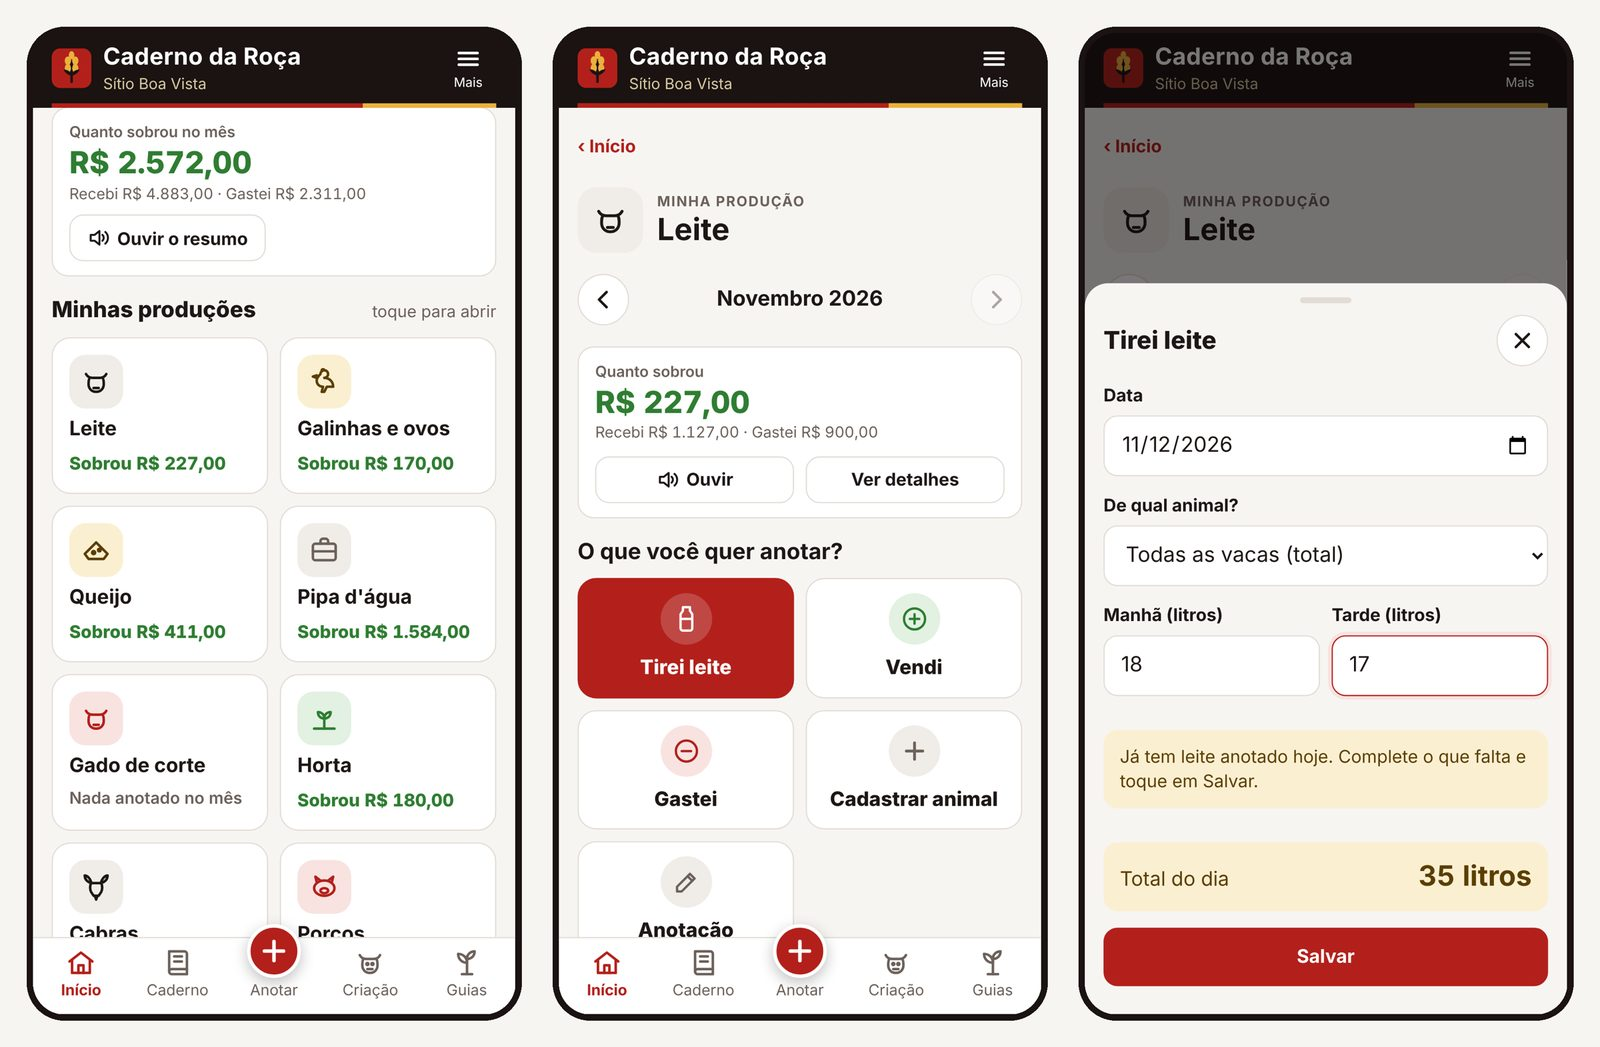
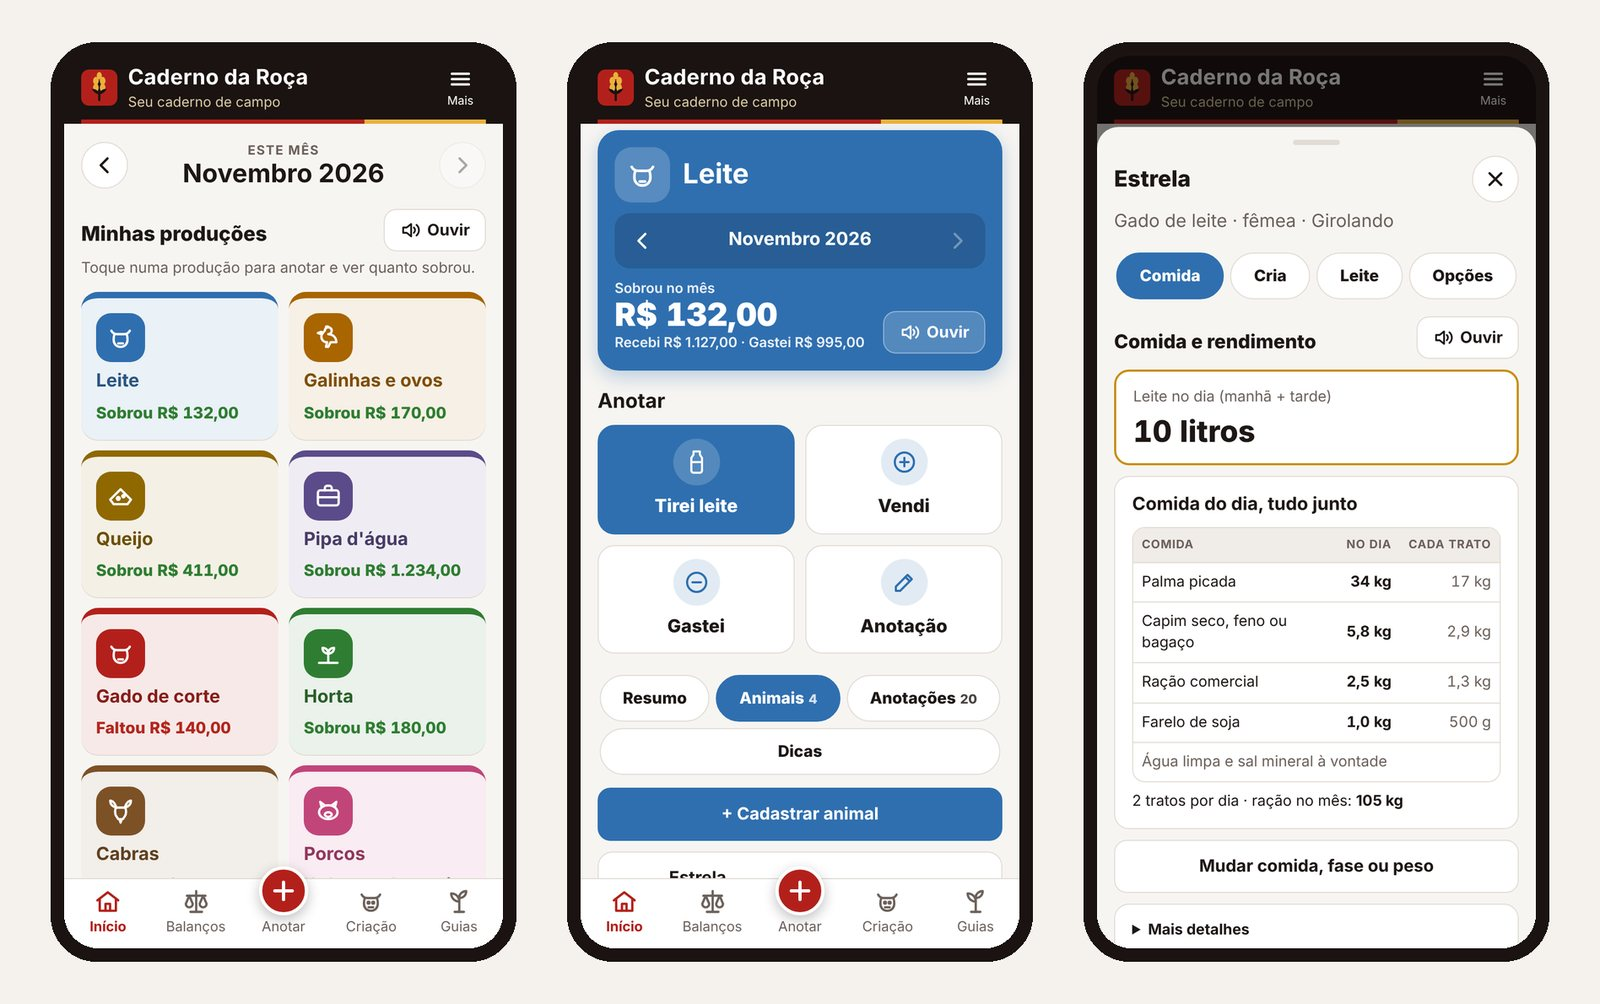
Apresentação atualizada: plataforma com quatro portas, técnicos e setores, programas federais, implantação em 2 meses, telas novas do app
Claude-Session: https://claude.ai/code/session_015QXzBRzgzvtV8Z8UQEw2zt

diff --git a/apresentacao/index.html b/apresentacao/index.html
@@ -156,6 +156,28 @@ footer{background:var(--black);color:#b9a98f;font-size:13px;padding:26px 0 calc(
 footer .wrap{display:flex;justify-content:space-between;gap:16px;flex-wrap:wrap}
 footer a{color:#e6d9bd}
 @media (prefers-reduced-motion: reduce){html{scroll-behavior:auto}.mod{transition:none}}
+.portas{display:grid;grid-template-columns:repeat(4,minmax(0,1fr));gap:14px;margin-top:30px}
+@media (max-width:900px){.portas{grid-template-columns:repeat(2,minmax(0,1fr))}}
+@media (max-width:520px){.portas{grid-template-columns:1fr}}
+.porta{background:var(--surface);border:1px solid var(--line);border-top:6px solid var(--c);border-radius:14px;padding:18px;display:flex;flex-direction:column;gap:6px}
+.porta .pn{width:34px;height:34px;border-radius:10px;background:var(--c);color:#fff;font-weight:900;display:grid;place-items:center}
+.porta h3{font-size:19px;color:var(--c)}
+.porta p{color:var(--muted);font-size:15px}
+.base{margin-top:14px;background:var(--black);color:#fff;border-radius:14px;padding:16px 18px;display:flex;flex-wrap:wrap;gap:6px 14px;align-items:baseline}
+.base b{color:var(--gold);font-family:var(--display);font-size:18px}
+.base span{color:#e6d9bd;font-size:15px}
+.progs{display:grid;grid-template-columns:repeat(4,minmax(0,1fr));gap:14px;margin-top:26px}
+@media (max-width:900px){.progs{grid-template-columns:repeat(2,minmax(0,1fr))}}
+@media (max-width:520px){.progs{grid-template-columns:1fr}}
+.progs div{background:var(--surface);border:1px solid var(--line);border-radius:14px;padding:16px;display:flex;flex-direction:column;gap:6px}
+.progs b{font-family:var(--display);font-size:20px;color:var(--red)}
+.progs span{font-size:15px;color:var(--muted)}
+.progs small{margin-top:auto;font-size:12px;font-weight:800;letter-spacing:.05em;text-transform:uppercase;color:var(--gold-deep)}
+.nota{margin-top:18px;font-size:15px;color:var(--muted);background:var(--surface);border-left:4px solid var(--gold);border-radius:0 12px 12px 0;padding:12px 14px}
+.steps{grid-template-columns:repeat(5,minmax(0,1fr))!important}
+@media (max-width:1000px){.steps{grid-template-columns:repeat(2,minmax(0,1fr))!important}}
+@media (max-width:520px){.steps{grid-template-columns:1fr!important}}
+.plan a{color:var(--red);font-weight:700}
 </style>
 </head>
 <body>
@@ -169,8 +191,8 @@ footer a{color:#e6d9bd}
     <ul>
       <li><a href="#como">Como funciona</a></li>
       <li><a href="#modulos">Módulos</a></li>
-      <li><a href="#privacidade">Privacidade</a></li>
-      <li><a href="#planos">Planos</a></li>
+      <li><a href="#federal">Programas</a></li>
+      <li><a href="#implantacao">Implantação</a></li>
     </ul>
     <a class="btn gold" href="#contato">Agendar<span class="lg">&nbsp;apresentação</span></a>
   </div>
@@ -180,20 +202,20 @@ footer a{color:#e6d9bd}
 <header class="hero" id="topo">
   <div class="wrap">
     <div>
-      <p class="eyebrow" style="color:var(--gold)">Para Secretarias Municipais de Agricultura</p>
+      <p class="eyebrow" style="color:var(--gold)">Plataforma para Secretarias Municipais de Agricultura</p>
       <h1 style="margin-top:10px">O agricultor anota no celular. <em>A prefeitura enxerga o campo.</em></h1>
-      <p class="l">Um aplicativo simples, que funciona sem internet e fala em voz alta, para a família registrar a produção. E um painel para a Secretaria acompanhar comunidades, chuva, fila do trator, merenda escolar, CAF, água e assistência técnica.</p>
+      <p class="l">Uma plataforma única para toda a Secretaria: o app do produtor, o app de campo dos técnicos, o sistema de trabalho de cada setor e o portal do secretário. Tudo o que cada um registra vai para a mesma base, com mapa, fotos, relatórios e os programas federais organizados.</p>
       <div class="ctas">
         <a class="btn gold" href="../painel/">Ver o painel funcionando</a>
         <a class="btn line" href="../">Abrir o app do produtor</a>
       </div>
       <ul class="facts">
-        <li><b>14</b>módulos no painel</li>
-        <li><b>Sem internet</b>o app funciona no sítio</li>
-        <li><b>LGPD</b>a família decide o que compartilha</li>
+        <li><b>4</b>portas de entrada, uma base só</li>
+        <li><b>Sem internet</b>no sítio e no campo</li>
+        <li><b>Até 2 meses</b>para implantar</li>
       </ul>
     </div>
-    <figure><img src="figura1.jpg" width="1600" height="1047" alt="Telas do aplicativo Caderno da Roça: início com as produções, tela do leite e registro das duas ordenhas"></figure>
+    <figure><img src="figura1.jpg" width="1600" height="1004" alt="Telas do aplicativo Caderno da Roça: início com as produções, tela do leite e registro das duas ordenhas"></figure>
   </div>
 </header>
 
@@ -213,12 +235,15 @@ footer a{color:#e6d9bd}
 <section id="como" class="alt">
   <div class="wrap">
     <p class="eyebrow">Como funciona</p>
-    <h2 class="h2">Do sítio ao gabinete em três passos</h2>
-    <ol class="flow">
-      <li><h3>A família anota</h3><p>No app, com botões grandes como "Tirei leite", "Vendi" e "Choveu". Funciona sem internet e lê tudo em voz alta.</p></li>
-      <li><h3>A família autoriza</h3><p>Ela escolhe participar e compartilhar com a Secretaria. Pode sair quando quiser.</p></li>
-      <li><h3>A Secretaria enxerga</h3><p>O painel mostra os números somados por comunidade, sem expor a renda de ninguém, e gera relatórios e planilhas.</p></li>
-    </ol>
+    <h2 class="h2">Quatro portas de entrada, uma base de dados só</h2>
+    <p class="lead">Cada pessoa usa a parte da plataforma feita para o seu trabalho. Tudo o que é registrado vai para a mesma base, e o secretário acompanha tudo num só lugar.</p>
+    <div class="portas">
+      <div class="porta" style="--c:#2f7d32"><span class="pn">1</span><h3>Produtor</h3><p>Anota produção, vendas e gastos no app, pede trator ou carro-pipa e acompanha a fila.</p></div>
+      <div class="porta" style="--c:#13858a"><span class="pn">2</span><h3>Técnico</h3><p>No campo, mesmo sem sinal: cadastro com GPS, visitas com fotos, relatórios e laudos.</p></div>
+      <div class="porta" style="--c:#5b4b8a"><span class="pn">3</span><h3>Setores</h3><p>Cada setor trabalha na sua parte: máquinas, água, obras, insumos, atendimento e programas.</p></div>
+      <div class="porta" style="--c:#b3201b"><span class="pn">4</span><h3>Secretário</h3><p>Portal com tudo junto: painéis, mapa, alertas, prazos e relatórios para decidir.</p></div>
+    </div>
+    <div class="base"><b>Base de dados única</b><span>Servidor no Brasil · login individual · cada perfil vê só o que precisa · cópia de segurança diária</span></div>
   </div>
 </section>
 
@@ -227,26 +252,38 @@ footer a{color:#e6d9bd}
     <div>
       <p class="eyebrow">Para o produtor</p>
       <h2 class="h2">Feito para quem tem pouca leitura</h2>
-      <p class="lead">O aplicativo é organizado por produção: leite, queijo, galinhas, cabras, porcos, peixes, roçado, horta e serviços como frete e pipa d'água.</p>
+      <p class="lead">Organizado por produção, com cores e botões grandes: leite, queijo, gado, cabras, ovelhas, porcos, galinhas, peixes, roçado, horta e serviços como frete e pipa d'água.</p>
       <ul class="ticks">
-        <li>Mostra quanto sobrou em cada produção no mês</li>
-        <li>Calcula o total da venda, o custo do litro de leite e o rendimento do queijo</li>
-        <li>Registra as duas ordenhas do dia e avisa sobre cio e parto</li>
-        <li>Relatório mensal e guias técnicos com leitura em voz alta</li>
-        <li>Instala pelo navegador, sem loja e sem ocupar espaço</li>
+        <li>Mostra quanto sobrou em cada produção, no mês e no ano</li>
+        <li>Calcula a comida do dia de cada animal e quanto ele pode render, com base em tabelas científicas</li>
+        <li>Registra as duas ordenhas, cio, cobertura, parto, machos e fêmeas</li>
+        <li>Lê tudo em voz alta e funciona sem internet</li>
+        <li>Pede serviços à Secretaria e recebe avisos</li>
       </ul>
     </div>
-    <figure><img src="figura2.jpg" width="1600" height="1047" loading="lazy" alt="Telas do aplicativo: venda com total automático, relatório mensal e guia com leitura em voz alta"><figcaption>Telas do aplicativo com dados fictícios de demonstração.</figcaption></figure>
+    <figure><img src="figura2.jpg" width="1600" height="1482" loading="lazy" alt="Telas do aplicativo: criação com a ração de todos os animais e balanço do mês por produção"><figcaption>Telas do aplicativo com dados fictícios de demonstração.</figcaption></figure>
   </div>
 </section>
 
-<section id="modulos" class="alt">
+<section id="tecnicos" class="alt">
   <div class="wrap">
-    <p class="eyebrow">Para a Secretaria</p>
-    <h2 class="h2">Um painel com tudo o que a agricultura do município precisa</h2>
+    <p class="eyebrow">Para os técnicos e os setores</p>
+    <h2 class="h2">O trabalho do dia a dia, registrado na hora</h2>
+    <div class="cards">
+      <div class="card"><div class="ic" style="background:#dff1f1;color:#13858a"><svg width="24" height="24" viewBox="0 0 24 24" fill="none" stroke="currentColor" stroke-width="2" stroke-linecap="round"><circle cx="12" cy="10" r="3"/><path d="M12 21s-7-6-7-11a7 7 0 0 1 14 0c0 5-7 11-7 11z"/></svg></div><h3>App do técnico</h3><p>Cadastro de produtores com localização, visitas com fotos e GPS, relatório em PDF, laudos do Garantia-Safra e vistoria de obras. Funciona sem sinal e envia quando pegar internet.</p></div>
+      <div class="card"><div class="ic" style="background:#ebe7f5;color:#5b4b8a"><svg width="24" height="24" viewBox="0 0 24 24" fill="none" stroke="currentColor" stroke-width="2" stroke-linecap="round"><rect x="3" y="7" width="18" height="13" rx="2"/><path d="M9 7V5a2 2 0 0 1 2-2h2a2 2 0 0 1 2 2v2"/></svg></div><h3>Sistema dos setores</h3><p>Fila do trator e das máquinas, carro-pipa com rota, obras com fotos de antes e depois, entrega de sementes sem duplicidade e registro de atendimento.</p></div>
+      <div class="card"><div class="ic"><svg width="24" height="24" viewBox="0 0 24 24" fill="none" stroke="currentColor" stroke-width="2" stroke-linecap="round"><path d="M3 6l6-3 6 3 6-3v15l-6 3-6-3-6 3z"/><path d="M9 3v15M15 6v15"/></svg></div><h3>Mapa do município</h3><p>Produtores, obras, visitas e pedidos de serviço no mapa, com camadas que se ligam e desligam. Fotos com data, hora e local.</p></div>
+    </div>
+  </div>
+</section>
+
+<section id="modulos">
+  <div class="wrap">
+    <p class="eyebrow">Para o secretário</p>
+    <h2 class="h2">Tudo o que a agricultura do município precisa, num painel</h2>
     <p class="lead">Toque em qualquer módulo para abrir a demonstração com dados fictícios.</p>
     <div class="mods">
-      <a class="mod" href="../painel/#visao"><span class="tag">Panorama</span><h3>Visão geral</h3><p>Produção, chuva, serviços e alertas do mês numa tela só.</p><span class="go">Ver →</span></a>
+      <a class="mod" href="../painel/#visao"><span class="tag">Panorama</span><h3>Visão geral</h3><p>Produção, chuva, serviços, prazos e alertas do mês numa tela só.</p><span class="go">Ver →</span></a>
       <a class="mod" href="../painel/#comunidades"><span class="tag">Panorama</span><h3>Comunidades</h3><p>Leite, ovos, queijo e chuva por comunidade, com histórico de 12 meses.</p><span class="go">Ver →</span></a>
       <a class="mod" href="../painel/#mapa"><span class="tag">Panorama</span><h3>Mapa do município</h3><p>Comunidades, cisternas, barreiros e pedidos de trator no mapa.</p><span class="go">Ver →</span></a>
       <a class="mod" href="../painel/#chuva"><span class="tag">Produção e clima</span><h3>Chuva e seca</h3><p>Pluviômetros das famílias contra a média histórica, e perdas de safra.</p><span class="go">Ver →</span></a>
@@ -257,22 +294,42 @@ footer a{color:#e6d9bd}
       <a class="mod" href="../painel/#tecnico"><span class="tag">Serviços</span><h3>Assistência técnica</h3><p>Visitas com foto e localização, e quem está há mais tempo sem visita.</p><span class="go">Ver →</span></a>
       <a class="mod" href="../painel/#merenda"><span class="tag">Programas</span><h3>Merenda escolar e PAA</h3><p>Acompanha o mínimo legal de 45% e mostra onde há produção para comprar.</p><span class="go">Ver →</span></a>
       <a class="mod" href="../painel/#caf"><span class="tag">Programas</span><h3>CAF e Garantia-Safra</h3><p>Cadastros vencendo, famílias sem CAF e sugestão de mutirão.</p><span class="go">Ver →</span></a>
-      <a class="mod" href="../painel/#federal"><span class="tag">Programas</span><h3>Sistemas federais</h3><p>Prazos, conferência e planilhas prontas para SISPAA, SGGS, Rede CAF e FNDE, com os laudos do Garantia-Safra.</p><span class="go">Ver →</span></a>
+      <a class="mod" href="../painel/#federal"><span class="tag">Programas</span><h3>Sistemas federais</h3><p>Prazos, conferência e planilhas prontas para SISPAA, SGGS, Rede CAF e FNDE.</p><span class="go">Ver →</span></a>
       <a class="mod" href="../painel/#avisos"><span class="tag">Comunicação</span><h3>Avisos aos produtores</h3><p>Mensagens que chegam no app da família e podem ser ouvidas.</p><span class="go">Ver →</span></a>
       <a class="mod" href="../painel/#relatorios"><span class="tag">Comunicação</span><h3>Relatórios</h3><p>Relatório mensal e planilhas para o prefeito, o conselho e o Tribunal de Contas.</p><span class="go">Ver →</span></a>
     </div>
   </div>
 </section>
 
+<section id="federal" class="alt">
+  <div class="wrap">
+    <p class="eyebrow">Programas e sistemas federais</p>
+    <h2 class="h2">Nenhum prazo perdido, nenhum lançamento recusado</h2>
+    <p class="lead">A plataforma organiza a parte operacional de cada programa e deixa tudo pronto para a equipe lançar nos sistemas do governo federal.</p>
+    <div class="progs">
+      <div><b>PNAE</b><span>Oferta dos produtores, chamada pública, entregas por escola e o mínimo de 45% da agricultura familiar</span><small>Prestação de contas · FNDE</small></div>
+      <div><b>PAA</b><span>Fornecedores, entregas, notas, entidades atendidas e limite por família</span><small>SISPAA · MDS</small></div>
+      <div><b>Garantia-Safra</b><span>Inscrições, chuva por comunidade e laudos de vistoria com fotos feitos pelos técnicos</span><small>SGGS · MDA</small></div>
+      <div><b>CAF</b><span>Vencimentos, mutirões e cadastros preparados, se a Prefeitura for da Rede CAF</span><small>Rede CAF · MDA</small></div>
+    </div>
+    <ul class="ticks">
+      <li><span><b>Prazos:</b> aviso antes de cada prazo, como o envio dos laudos do Garantia-Safra</span></li>
+      <li><span><b>Conferência:</b> o sistema aponta CAF vencido, entrega sem nota e família perto do limite antes do lançamento</span></li>
+      <li><span><b>Pronto para copiar:</b> planilhas na ordem dos campos de cada sistema federal</span></li>
+    </ul>
+    <p class="nota">Os sistemas federais só aceitam lançamentos feitos por servidores autorizados, com login gov.br. A plataforma prepara, confere e avisa; o lançamento continua com a equipe.</p>
+  </div>
+</section>
+
 <section id="privacidade">
   <div class="wrap">
     <p class="eyebrow">Privacidade e LGPD</p>
-    <h2 class="h2">A família é dona dos seus dados</h2>
+    <h2 class="h2">Dados protegidos, regras claras</h2>
     <div class="priv">
-      <div><b>Participação voluntária</b><span>Ninguém é obrigado. A família escolhe compartilhar e pode parar a qualquer momento.</span></div>
-      <div><b>Números somados</b><span>O painel mostra totais por comunidade. A renda de uma família nunca aparece.</span></div>
-      <div><b>Grupos pequenos protegidos</b><span>Comunidades com menos de 5 famílias participantes aparecem agrupadas.</span></div>
-      <div><b>Funciona no aparelho</b><span>Os registros ficam guardados no celular do produtor, mesmo sem internet.</span></div>
+      <div><b>A Prefeitura é a dona dos dados</b><span>Ela é a controladora, como manda a LGPD. O desenvolvedor só trata os dados para o sistema funcionar.</span></div>
+      <div><b>O caderno pessoal é da família</b><span>Renda, vendas e gastos só saem do celular com autorização do produtor, e aparecem somados por comunidade.</span></div>
+      <div><b>Cada um vê só o que precisa</b><span>Login individual, permissões por perfil e registro de quem viu e quem alterou.</span></div>
+      <div><b>Servidor no Brasil</b><span>Comunicação criptografada e cópia de segurança diária. No fim do contrato, a Prefeitura recebe todos os dados.</span></div>
     </div>
   </div>
 </section>
@@ -280,25 +337,26 @@ footer a{color:#e6d9bd}
 <section id="implantacao" class="alt">
   <div class="wrap">
     <p class="eyebrow">Implantação</p>
-    <h2 class="h2">Em funcionamento em poucas semanas</h2>
+    <h2 class="h2">Funcionando em até 2 meses, em cinco fases</h2>
+    <p class="lead">Cada fase já entrega algo que funciona, e é paga só depois de aprovada pela Secretaria.</p>
     <div class="steps">
-      <div><small>Passo 1</small><h3>Apresentação</h3><p>Demonstração para o secretário e a equipe técnica.</p></div>
-      <div><small>Passo 2</small><h3>Configuração</h3><p>Comunidades, técnicos, programas e a identidade do município no painel.</p></div>
-      <div><small>Passo 3</small><h3>Formação</h3><p>Treinamento dos técnicos e agentes, e oficinas nas associações.</p></div>
-      <div><small>Passo 4</small><h3>Acompanhamento</h3><p>Suporte, ajustes e relatório de uso a cada mês.</p></div>
+      <div><small>Fase 1 · até 7 dias</small><h3>Base</h3><p>Servidor, login dos perfis e cadastro de produtores e comunidades com localização.</p></div>
+      <div><small>Fase 2 · até 14 dias</small><h3>Técnicos</h3><p>App de campo com visitas, fotos, GPS, relatórios e laudos, testado nas comunidades.</p></div>
+      <div><small>Fase 3 · até 14 dias</small><h3>Setores</h3><p>Máquinas, carro-pipa, obras, insumos, atendimento e pedidos pelo app do produtor.</p></div>
+      <div><small>Fase 4 · até 14 dias</small><h3>Programas</h3><p>PNAE, PAA, CAF, Garantia-Safra e a preparação para os sistemas federais.</p></div>
+      <div><small>Fase 5 · até 7 dias</small><h3>Gestão</h3><p>Portal do secretário com dados reais: painéis, mapa, alertas e relatórios.</p></div>
     </div>
   </div>
 </section>
 
 <section id="planos">
   <div class="wrap">
-    <p class="eyebrow">Planos</p>
-    <h2 class="h2">Comece pelo essencial e amplie depois</h2>
-    <p class="lead">O aplicativo continua gratuito para o produtor. A prefeitura contrata o painel e os módulos que precisar.</p>
+    <p class="eyebrow">Como contratar</p>
+    <h2 class="h2">Licença de uso, com tudo incluído</h2>
     <div class="plans">
-      <div class="plan"><h3>Essencial</h3><p class="pr">Valores sob consulta</p><ul><li>Painel com visão geral e comunidades</li><li>Chuva e seca</li><li>Avisos aos produtores</li><li>Relatórios mensais</li></ul></div>
-      <div class="plan star"><h3>Gestão</h3><p class="pr">Valores sob consulta</p><ul><li>Tudo do Essencial</li><li>Máquinas e trator</li><li>Sementes, insumos e água</li><li>Merenda escolar e PAA</li><li>CAF e Garantia-Safra</li></ul></div>
-      <div class="plan"><h3>Completo</h3><p class="pr">Valores sob consulta</p><ul><li>Tudo do Gestão</li><li>Assistência técnica com visitas</li><li>Mapa do município</li><li>Diagnóstico produtivo</li><li>Formação das equipes</li></ul></div>
+      <div class="plan"><h3>Implantação</h3><p class="pr">Valor por fase, pago na entrega</p><ul><li>Configuração da plataforma para o município</li><li>Cadastro inicial das comunidades e da equipe</li><li>Treinamento dos técnicos e dos setores</li></ul></div>
+      <div class="plan star"><h3>Mensalidade</h3><p class="pr">Começa depois da primeira fase</p><ul><li>Licença para usuários ilimitados</li><li>Hospedagem no Brasil e cópia de segurança diária</li><li>Suporte em dias úteis e atualizações</li><li>App gratuito para as famílias</li></ul></div>
+      <div class="plan"><h3>Documentos</h3><p class="pr">Para a Secretaria analisar</p><ul><li><a href="../escopo/">Documento de escopo</a>, com módulos, fases e responsabilidades</li><li>Proposta comercial com valores, sob consulta</li></ul></div>
     </div>
   </div>
 </section>
